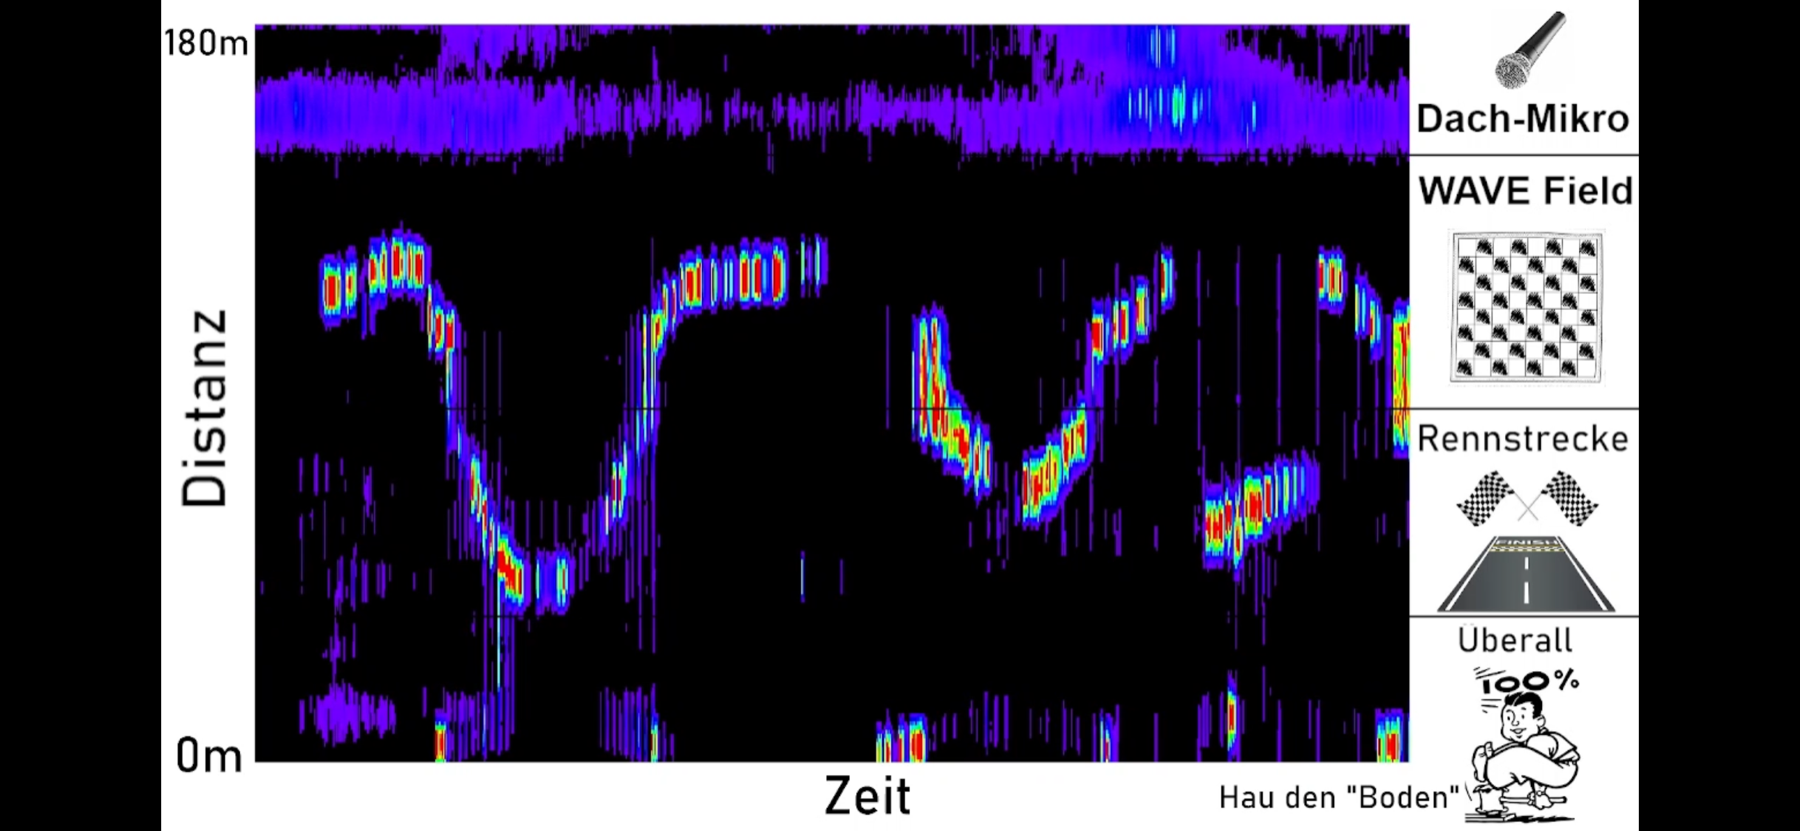
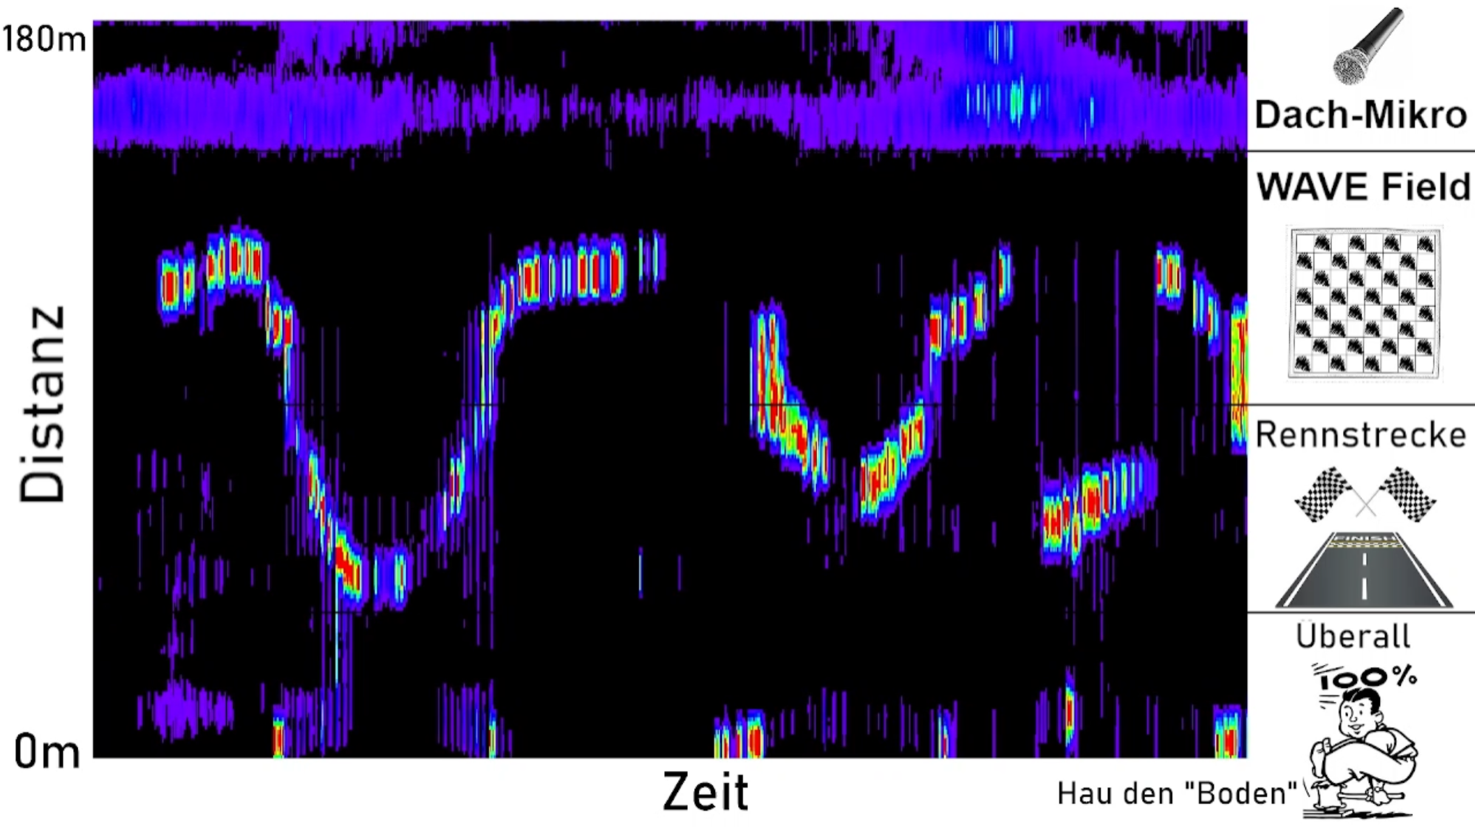
update images for science city day

diff --git a/_posts/2024-06-02-ScienceCityDay.md b/_posts/2024-06-02-ScienceCityDay.md
@@ -24,7 +24,7 @@ We decided to unroll about 400 m of fiber that we already had on a spool and lay
  This setup protected the fiber from being tripped over or damaged while allowing us to create a game: "Find the Fiber" beneath the WAVE-Field.
 The fiber was then laid from the parking lot into one of the adjacent buildings, routed over roofs and through bushes, and connected to the measuring device, the DAS interrogator. 
 
-<figure class="align-center">
+<figure style="width: 75%" class="align-center">
   <img src="{{ site.url }}{{ site.baseurl }}/assets/images/WAVE-field_DAS.jpg" alt="photo">
 </figure> 
 
@@ -42,19 +42,19 @@ After the rubber mats were delivered at the last minute on Friday afternoon, we 
 
 The WAVE-Field was a rectangular chessboard pattern made from rubber mats with fiber laid beneath in a specific pattern. Visitors had to locate the fiber by jumping or walking on the mats while monitoring a screen. Since we could only stream a waterfall diagram at that time, identifying the fiber path proved challenging but not impossible. This taught visitors how to interpret a [waterfall diagram]({{ site.url }}{{ site.baseurl }}/outreach/#waterfall-what-am-i-looking-at).
 
-<figure class="align-center">
+<figure style="width: 500px" class="align-center">
   <img src="{{ site.url }}{{ site.baseurl }}/assets/images/WAVE-field.jpeg" alt="photo">
 </figure> 
 
 
-<figure style="width: 400px" class="align-left">
+<figure style="width: 500px" class="align-center">
   <img src="{{ site.url }}{{ site.baseurl }}/assets/images/WAVE-field_running.jpeg" alt="photo">
 </figure> 
 
 ### Running Track
 We also set up a long row of rubber mats with fibers coiled underneath, creating a running track. The coils produced diagonal lines in the waterfall diagram, which plotted time on one axis and fiber length on the other. Although the coiling affected the accuracy of speed calculations, children enjoyed racing along the track, trying to create steep diagonal lines. The waterfall diagram clearly showed the direction and interaction of runners as they crossed paths or overtook each other.
 
-<figure style="width: 400px" class="align-right">
+<figure style="width: 500px" class="align-center">
   <img src="{{ site.url }}{{ site.baseurl }}/assets/images/WAVE-field_micro.jpeg" alt="photo">
 </figure> 
 
@@ -67,7 +67,16 @@ An unexpected discovery occurred when we set up the WAVE-Field and running track
 They concluded that the signal was caused by acoustic vibrations and air pressure changes. When an airplane flew overhead, the fiber on the roof lit up dramatically on the live stream. This surprise finding enriched our scientific data, as we had been searching for aircraft signals in our WAVE network but hadn't found any due to the mostly underground fiber routes. Thanks to Science City Day, we identified a fiber section where airplane signals could be "heard."
 
 <figure class="align-center">
-  <img src="{{ site.url }}{{ site.baseurl }}/assets/images/WAVE-field_screen.jpeg" alt="photo">
+  <img src="{{ site.url }}{{ site.baseurl }}/assets/images/WAVE-field_screen.png" alt="photo">
 </figure> 
+
+### Hit the Luke (Hau den Lukas)
+
+We introduced another engaging activity involving a rubber hammer used to strike the ground anywhere on the campus. Remarkably, this action generated a clear signal across the entire fiber network, visible in the live stream as a vertical line—indicating a strong excitation at a precise moment in all fiber sections. Attendees were amazed by how far they could distance themselves with the hammer and still excite the earth, showcasing the sensitivity of the fiber and the DAS system. 
+
+
+## Conclusion
+
+Despite the bustling campus atmosphere with about 50,000 visitors that day, and initial uncertainties about the potential noise interference during setup, this event, like all others, functioned smoothly and exceeded our expectations.
 
 
